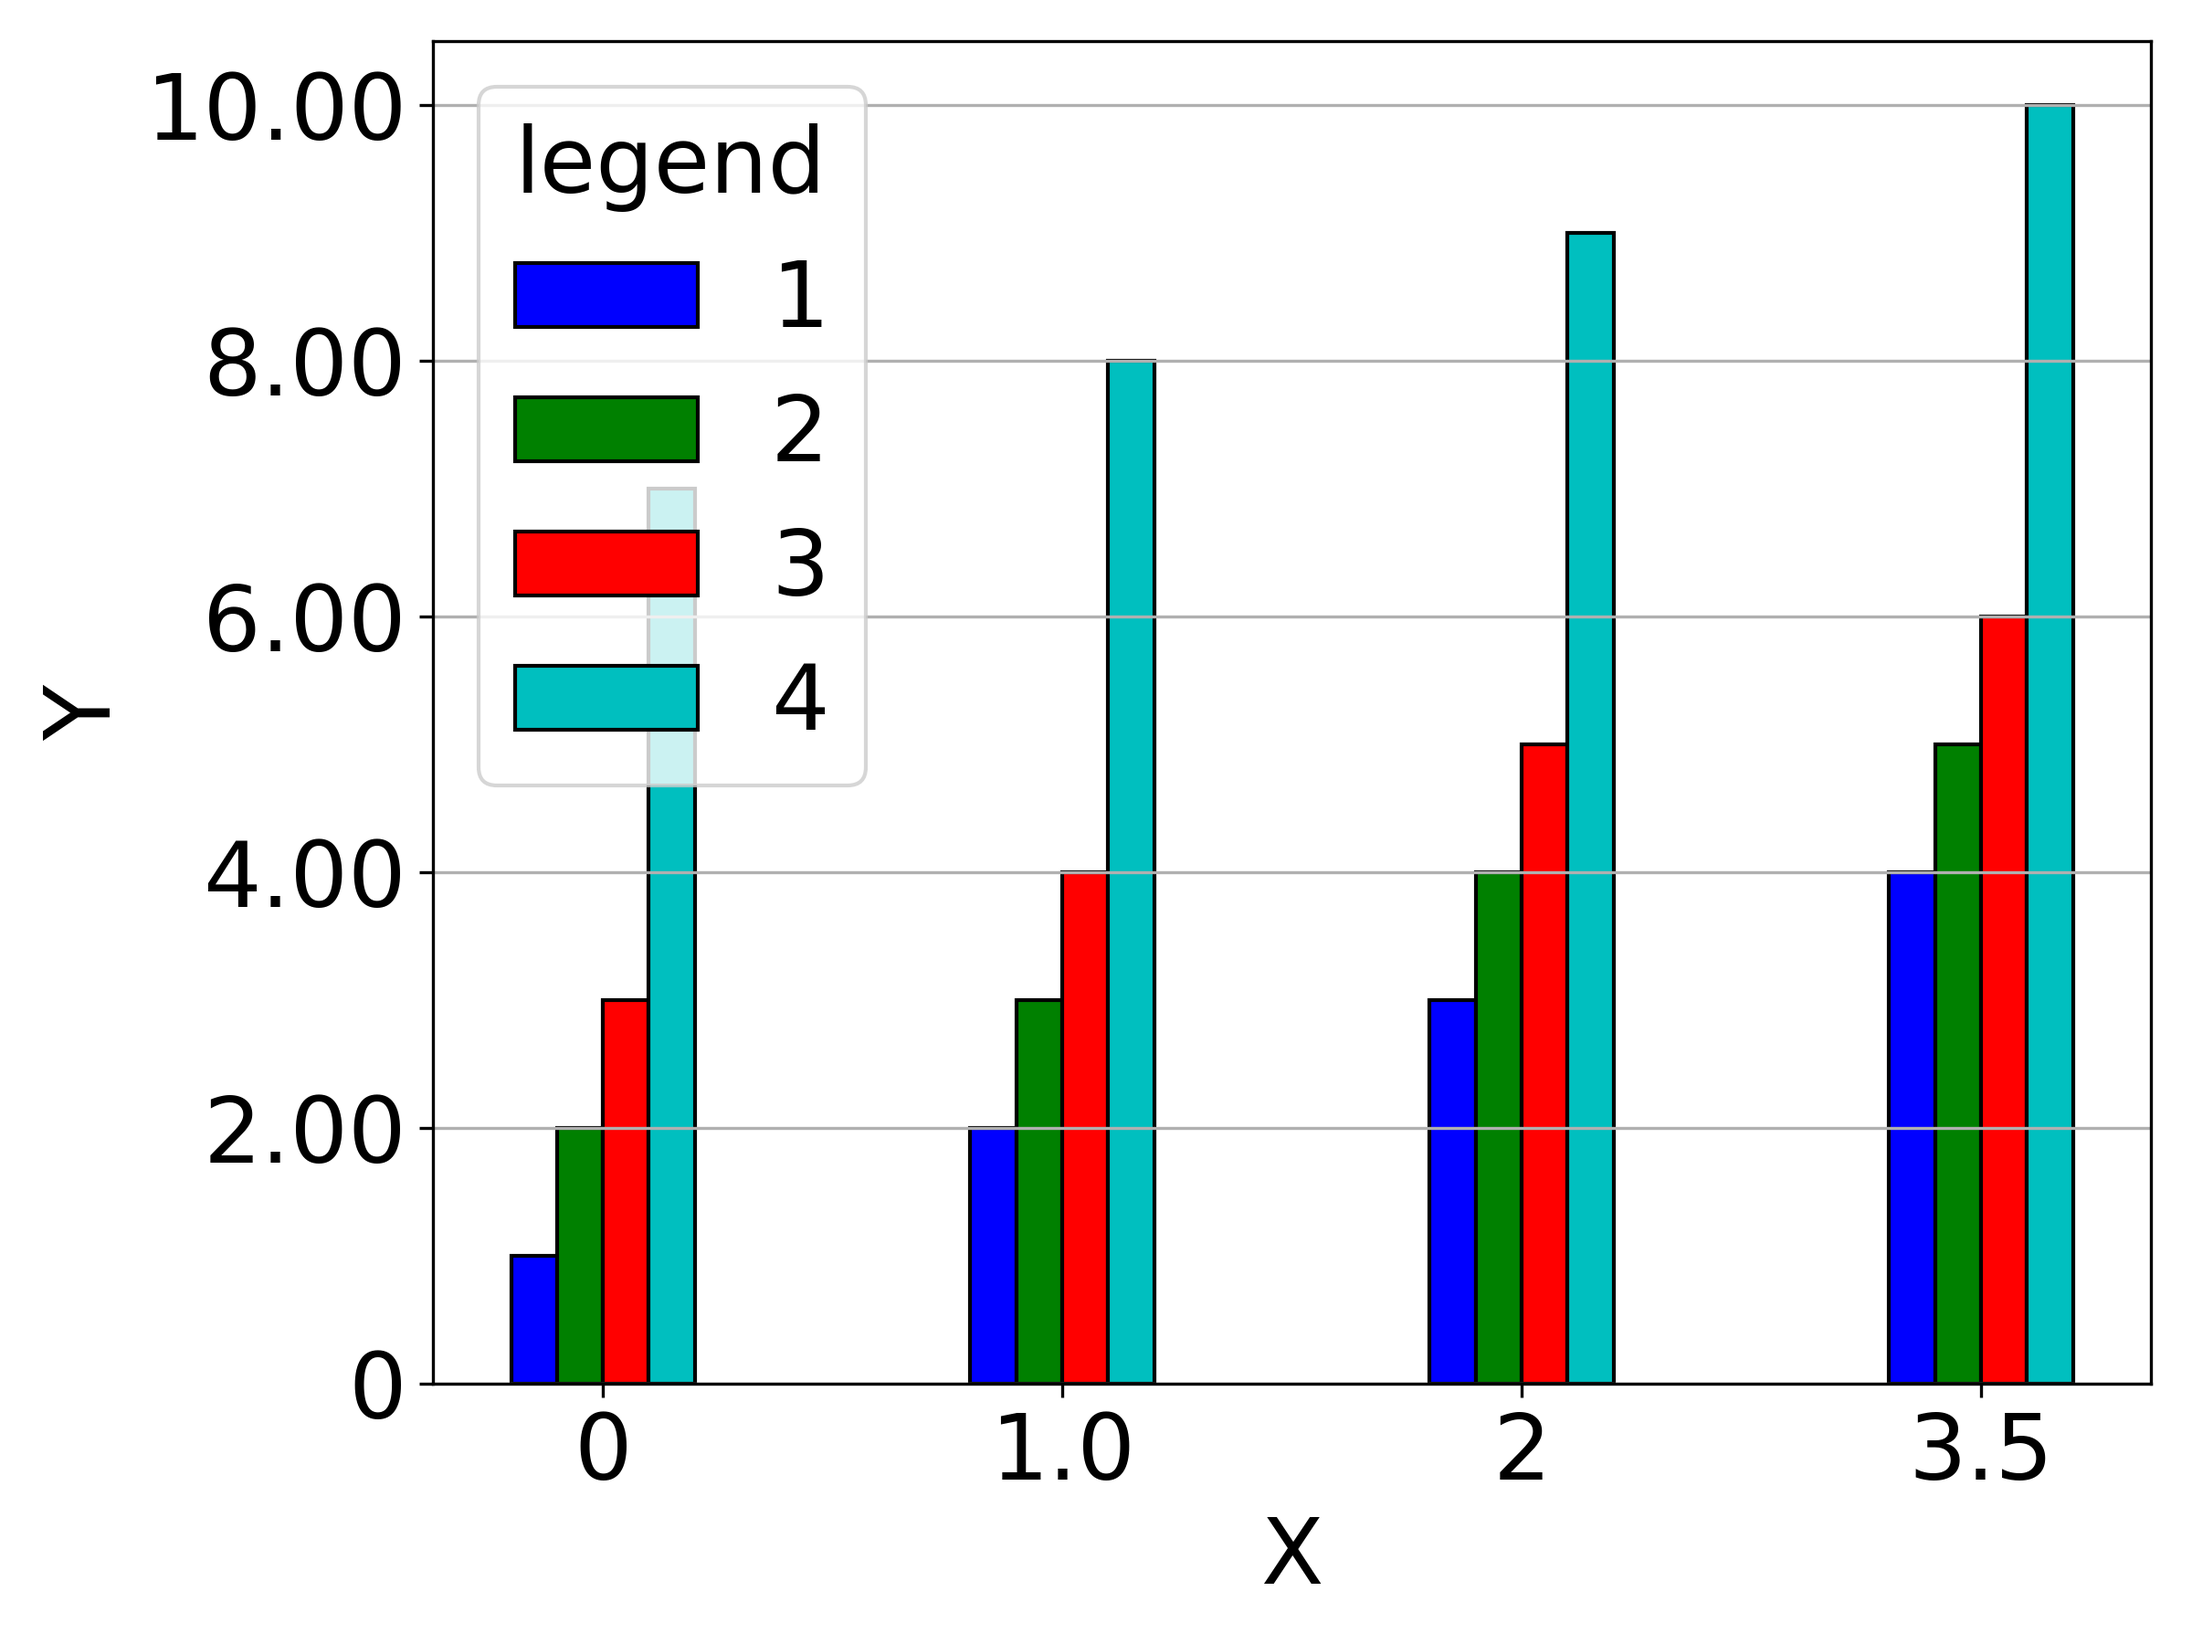
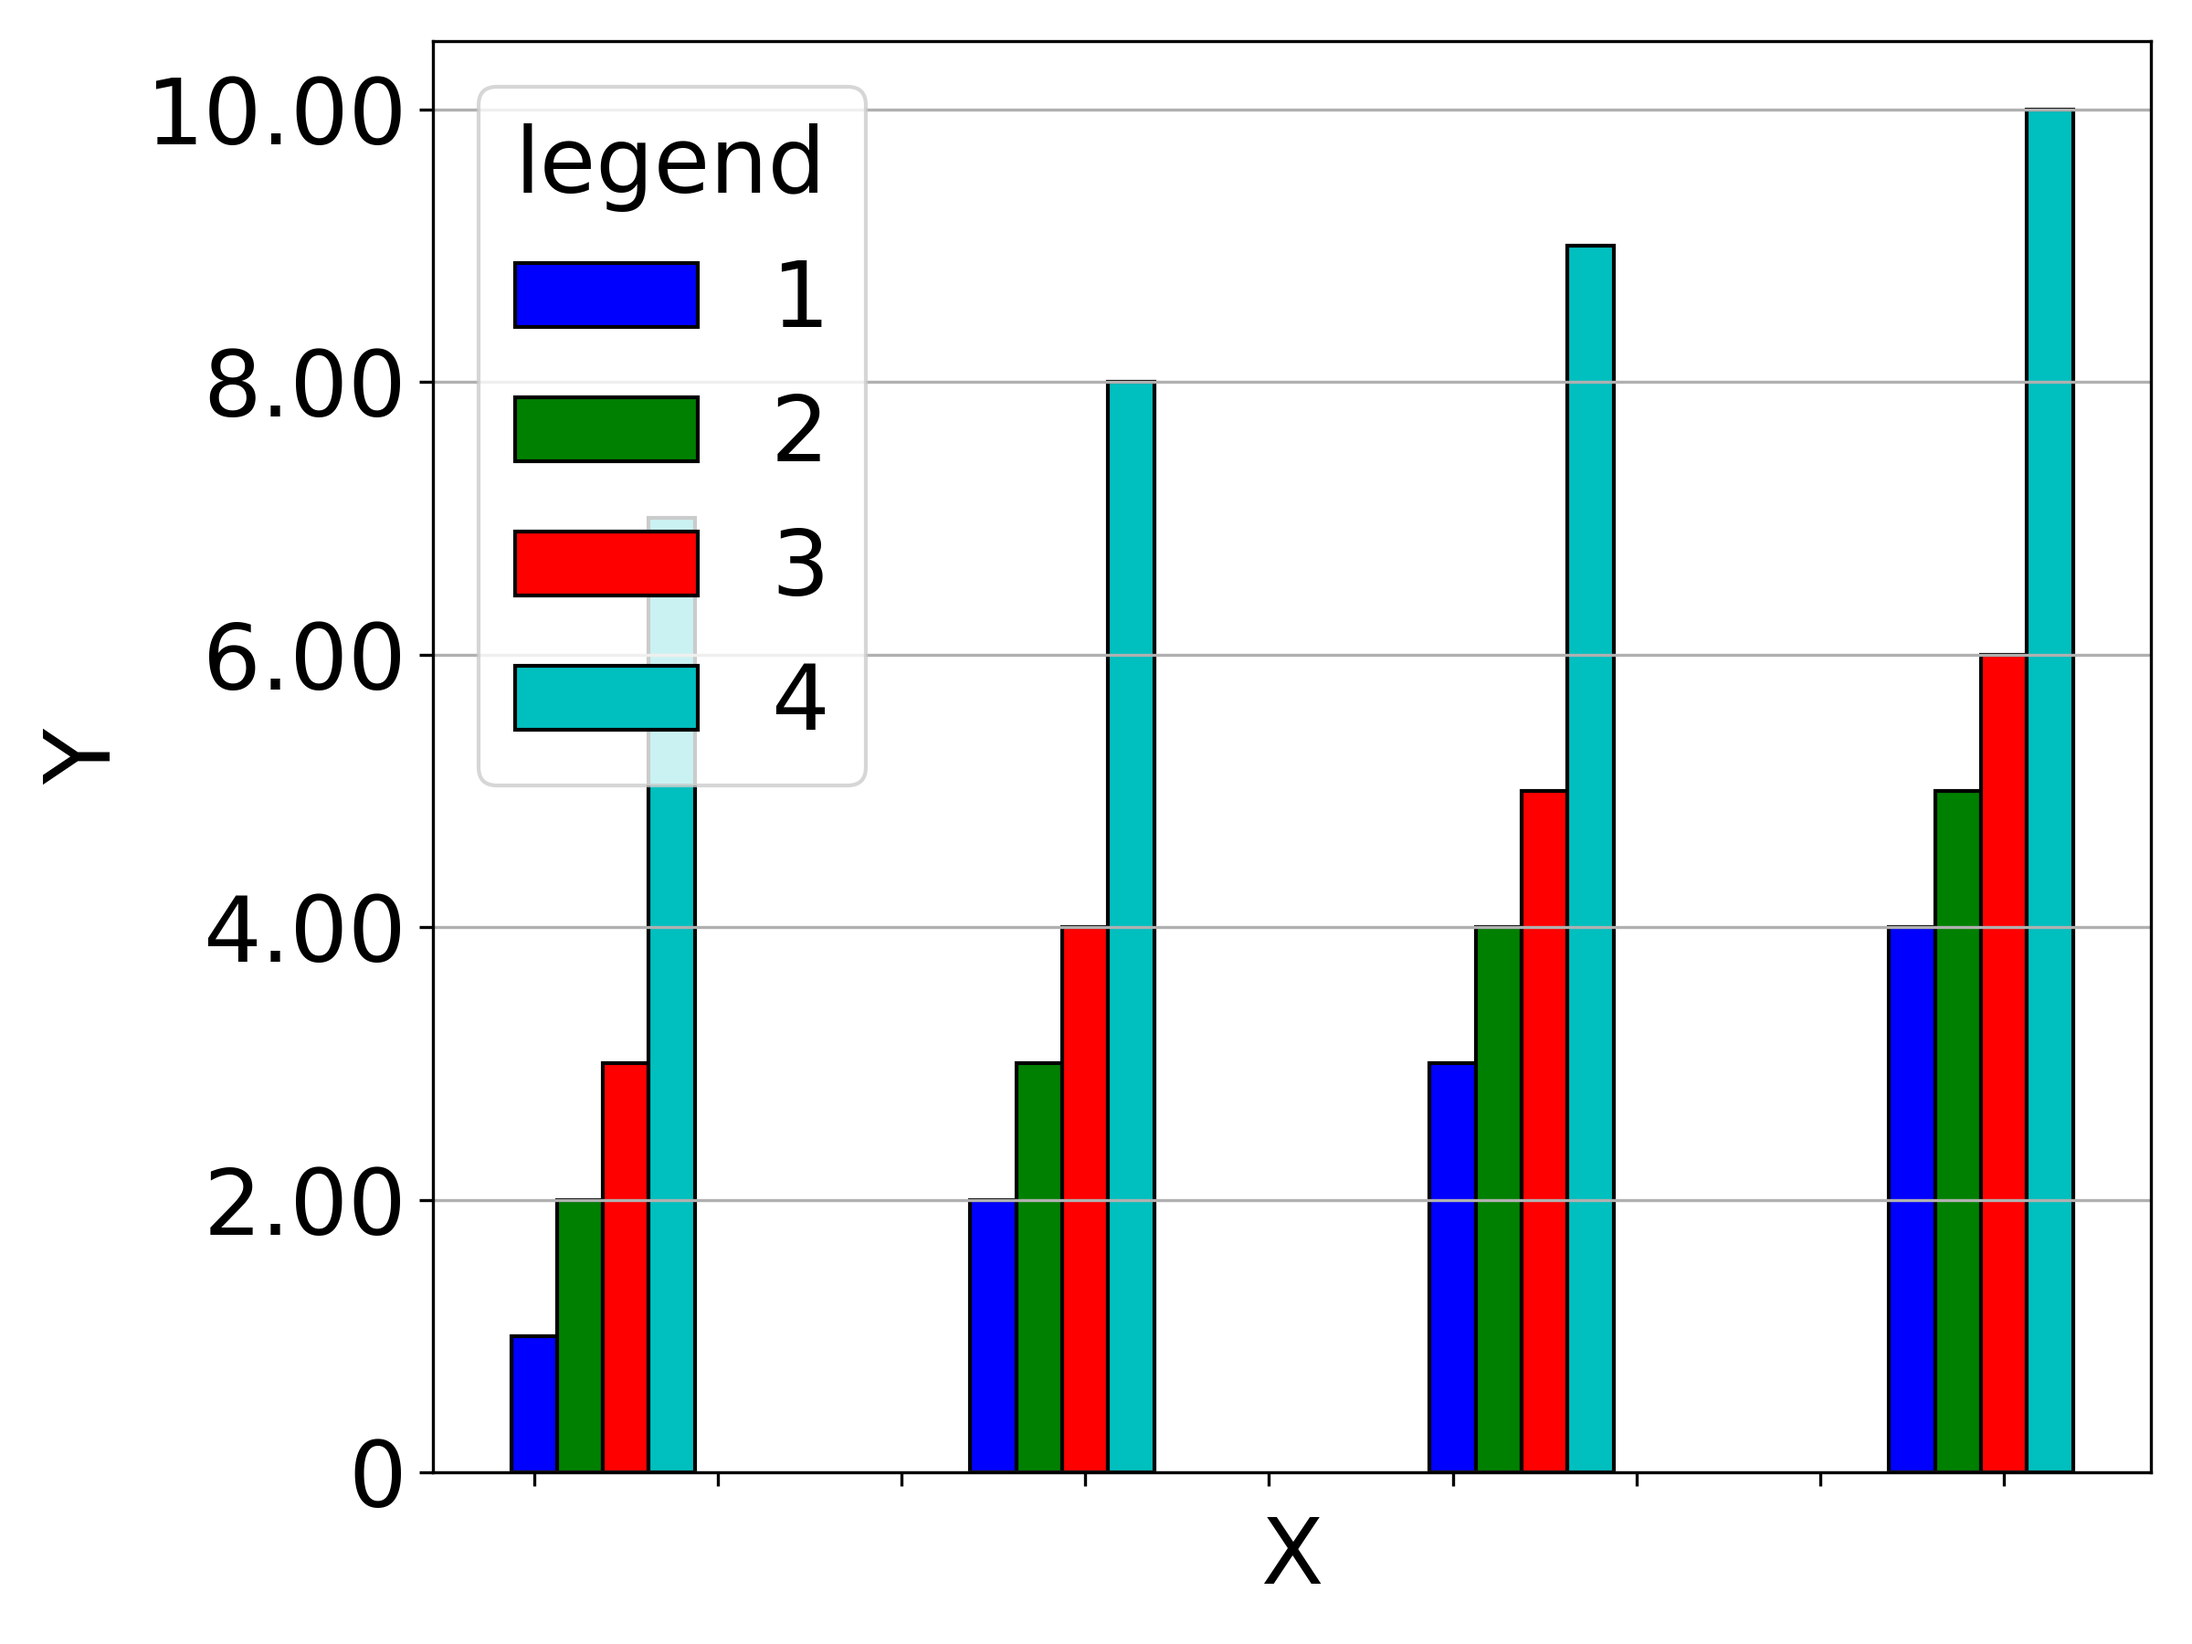
Update plotter

diff --git a/pyplotter/plot.py b/pyplotter/plot.py
@@ -6,7 +6,7 @@ from matplotlib.ticker import FuncFormatter
 from scipy import stats
 from typing import List
 from pyplotter.tick_formatter import CustomFormatter
-
+from matplotlib.ticker import MaxNLocator
 
 class Pyplot_config:
     def __init__(self, figsize=(20, 6), fontsize=30):
@@ -136,6 +136,9 @@ class Plotter(Pyplot_config):
         plt.xticks([r + (len(bar_data_list) - 1) / 2 * self.bar_width for r in range(len(x_data))], x_data,
                    size=self.label_size)
         plt.yticks(size=self.label_size)
+
+        # 在设置主要刻度的格式化程序之前，使用MaxNLocator来自动计算x轴的刻度间隔
+        ax.xaxis.set_major_locator(MaxNLocator(integer=False, prune="both"))
 
         # 让角标变0
         ax = plt.gca()
